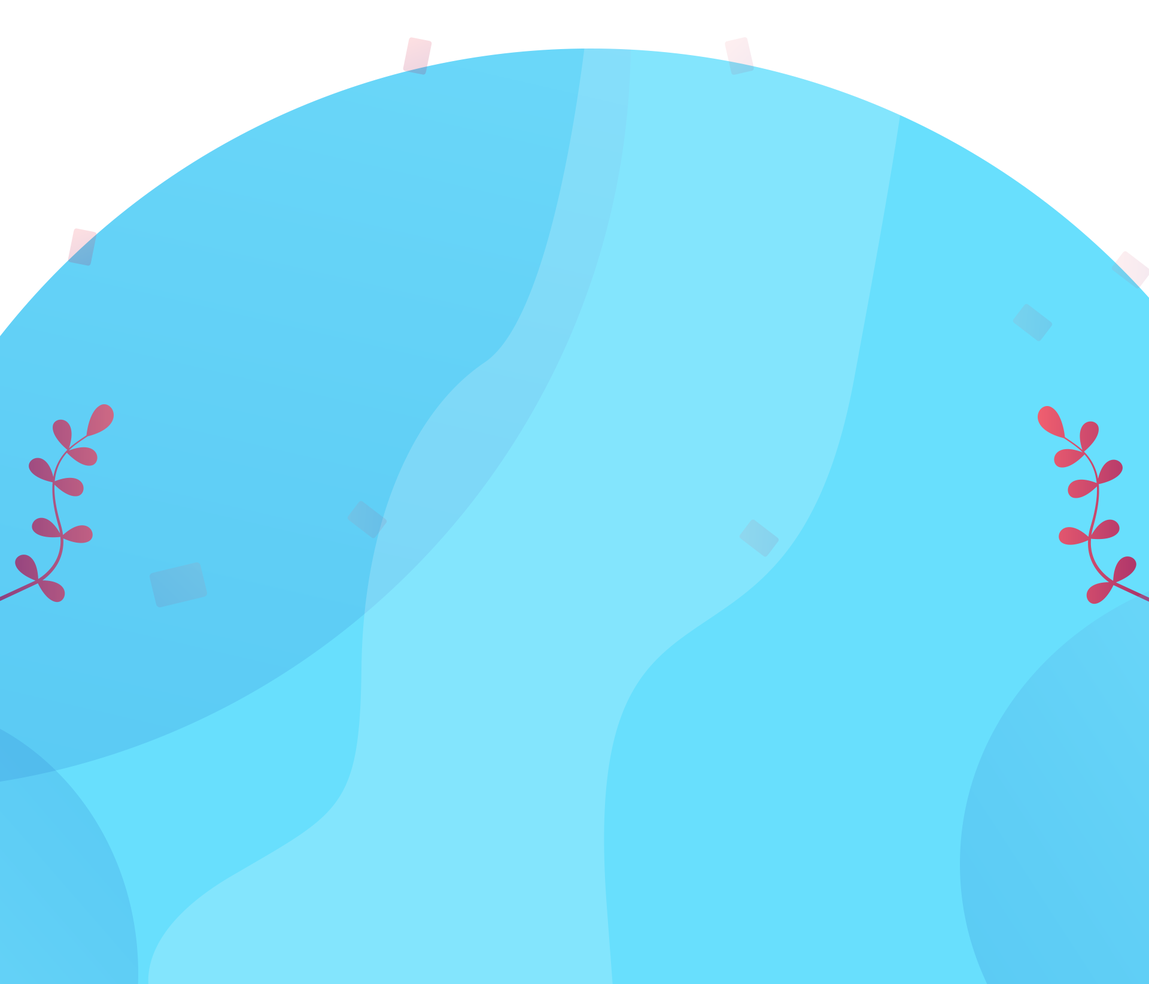
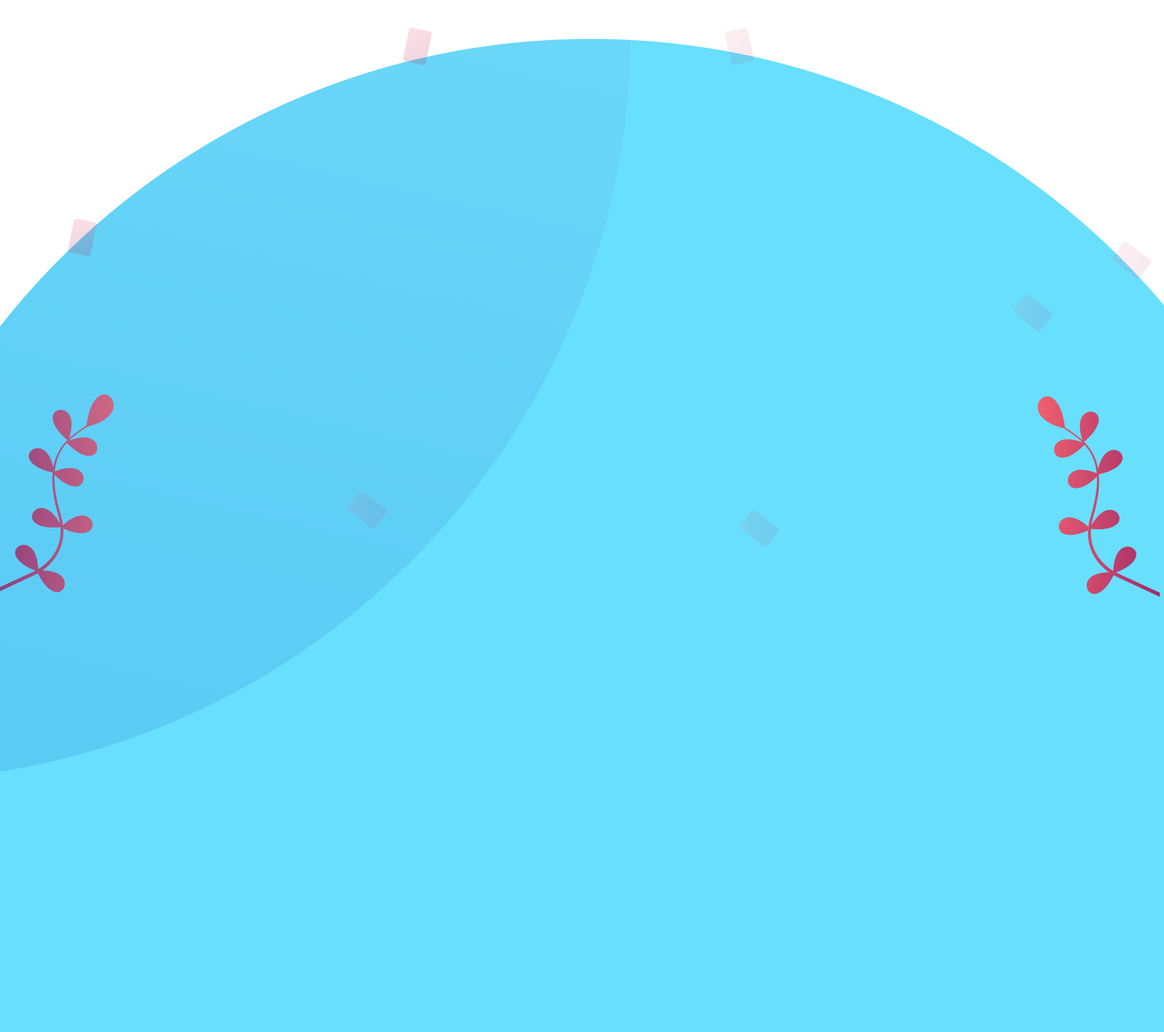
Закончил footer

diff --git a/app/css/style.min.css b/app/css/style.min.css
@@ -1,1 +1,1 @@
-/*! normalize.css v8.0.1 | MIT License | github.com/necolas/normalize.css */html{line-height:1.15;-webkit-text-size-adjust:100%}body{margin:0}main{display:block}h1{font-size:2em;margin:0.67em 0}hr{-webkit-box-sizing:content-box;box-sizing:content-box;height:0;overflow:visible}pre{font-family:monospace, monospace;font-size:1em}a{background-color:transparent}abbr[title]{border-bottom:none;text-decoration:underline;-webkit-text-decoration:underline dotted;text-decoration:underline dotted}b,strong{font-weight:bolder}code,kbd,samp{font-family:monospace, monospace;font-size:1em}small{font-size:80%}sub,sup{font-size:75%;line-height:0;position:relative;vertical-align:baseline}sub{bottom:-0.25em}sup{top:-0.5em}img{border-style:none}button,input,optgroup,select,textarea{font-family:inherit;font-size:100%;line-height:1.15;margin:0}button,input{overflow:visible}button,select{text-transform:none}button,[type="button"],[type="reset"],[type="submit"]{-webkit-appearance:button}button::-moz-focus-inner,[type="button"]::-moz-focus-inner,[type="reset"]::-moz-focus-inner,[type="submit"]::-moz-focus-inner{border-style:none;padding:0}button:-moz-focusring,[type="button"]:-moz-focusring,[type="reset"]:-moz-focusring,[type="submit"]:-moz-focusring{outline:1px dotted ButtonText}fieldset{padding:0.35em 0.75em 0.625em}legend{-webkit-box-sizing:border-box;box-sizing:border-box;color:inherit;display:table;max-width:100%;padding:0;white-space:normal}progress{vertical-align:baseline}textarea{overflow:auto}[type="checkbox"],[type="radio"]{-webkit-box-sizing:border-box;box-sizing:border-box;padding:0}[type="number"]::-webkit-inner-spin-button,[type="number"]::-webkit-outer-spin-button{height:auto}[type="search"]{-webkit-appearance:textfield;outline-offset:-2px}[type="search"]::-webkit-search-decoration{-webkit-appearance:none}::-webkit-file-upload-button{-webkit-appearance:button;font:inherit}details{display:block}summary{display:list-item}template{display:none}[hidden]{display:none}.slick-slider{position:relative;display:block;-webkit-box-sizing:border-box;box-sizing:border-box;-webkit-user-select:none;-moz-user-select:none;-ms-user-select:none;user-select:none;-webkit-touch-callout:none;-khtml-user-select:none;-ms-touch-action:pan-y;touch-action:pan-y;-webkit-tap-highlight-color:transparent}.slick-list{position:relative;display:block;overflow:hidden;margin:0;padding:0}.slick-list:focus{outline:none}.slick-list.dragging{cursor:pointer;cursor:hand}.slick-slider .slick-track,.slick-slider .slick-list{-webkit-transform:translate3d(0, 0, 0);-ms-transform:translate3d(0, 0, 0);transform:translate3d(0, 0, 0)}.slick-track{position:relative;top:0;left:0;display:block;margin-left:auto;margin-right:auto}.slick-track:before,.slick-track:after{display:table;content:''}.slick-track:after{clear:both}.slick-loading .slick-track{visibility:hidden}.slick-slide{display:none;float:left;height:100%;min-height:1px}[dir='rtl'] .slick-slide{float:right}.slick-slide img{display:block}.slick-slide.slick-loading img{display:none}.slick-slide.dragging img{pointer-events:none}.slick-initialized .slick-slide{display:block}.slick-loading .slick-slide{visibility:hidden}.slick-vertical .slick-slide{display:block;height:auto;border:1px solid transparent}.slick-arrow.slick-hidden{display:none}html,body,div,span,applet,object,iframe,h1,h2,h3,h4,h5,h6,p,blockquote,pre,a,abbr,acronym,address,big,cite,code,del,dfn,em,img,ins,kbd,q,s,samp,small,strike,strong,sub,sup,tt,var,b,u,i,center,dl,dt,dd,menu,ol,ul,li,fieldset,form,label,legend,table,caption,tbody,tfoot,thead,tr,th,td,article,aside,canvas,details,embed,figure,figcaption,footer,header,hgroup,main,menu,nav,output,ruby,section,summary,time,mark,audio,video{margin:0;padding:0;border:0;font-size:100%;font:inherit;vertical-align:baseline}article,aside,details,figcaption,figure,footer,header,hgroup,main,menu,nav,section{display:block}*[hidden]{display:none}body{line-height:1}menu,ol,ul{list-style:none}blockquote,q{quotes:none}blockquote:before,blockquote:after,q:before,q:after{content:'';content:none}table{border-collapse:collapse;border-spacing:0}@font-face{font-family:'fivosans-bold';src:url("../fonts/fivosans-bold.eot");src:local("☺"),url("../fonts/fivosans-bold.woff") format("woff"),url("../fonts/fivosans-bold.ttf") format("truetype"),url("../fonts/fivosans-bold.svg") format("svg");font-weight:700;font-style:normal}@font-face{font-family:'fivosans-heavy';src:url("../fonts/fivosans-heavy.eot");src:local("☺"),url("../fonts/fivosans-heavy.woff") format("woff"),url("../fonts/fivosans-heavy.ttf") format("truetype"),url("../fonts/fivosans-heavy.svg") format("svg");font-weight:800;font-style:normal}@font-face{font-family:'fivosans-light';src:url("../fonts/fivosans-light.eot");src:local("☺"),url("../fonts/fivosans-light.woff") format("woff"),url("../fonts/fivosans-light.ttf") format("truetype"),url("../fonts/fivosans-light.svg") format("svg");font-weight:300;font-style:normal}@font-face{font-family:'fivosans-medium';src:url("../fonts/fivosans-medium.eot");src:local("☺"),url("../fonts/fivosans-medium.woff") format("woff"),url("../fonts/fivosans-medium.ttf") format("truetype"),url("../fonts/fivosans-medium.svg") format("svg");font-weight:500;font-style:normal}@font-face{font-family:'fivosans-oblique';src:url("../fonts/fivosans-oblique.eot");src:local("☺"),url("../fonts/fivosans-oblique.woff") format("woff"),url("../fonts/fivosans-oblique.ttf") format("truetype"),url("../fonts/fivosans-oblique.svg") format("svg");font-weight:normal;font-style:normal}@font-face{font-family:'fivosans-regular';src:url("../fonts/fivosans-regular.eot");src:local("☺"),url("../fonts/fivosans-regular.woff") format("woff"),url("../fonts/fivosans-regular.ttf") format("truetype"),url("../fonts/fivosans-regular.svg") format("svg");font-weight:normal;font-style:normal}.menu{position:absolute;top:0;left:0;right:0;z-index:1000;padding-top:100px}.menu__body{display:-webkit-box;display:-ms-flexbox;display:flex;-webkit-box-pack:justify;-ms-flex-pack:justify;justify-content:space-between;-webkit-box-align:center;-ms-flex-align:center;align-items:center}.menu__body .logo a{font-family:'fivosans-heavy';color:#ff6a6d;font-size:32px;text-decoration:none}.menu__wrapper{display:-webkit-box;display:-ms-flexbox;display:flex;-webkit-box-align:center;-ms-flex-align:center;align-items:center}.menu__wrapper .btn__menu{margin-left:120px}.menu__list{display:-webkit-box;display:-ms-flexbox;display:flex}.menu__list li{margin-left:65px;list-style:none}.menu__list a{font-family:'fivosans-regular';color:#6e95b1;font-size:18px;text-decoration:none;-webkit-transition:all .2s linear;-o-transition:all .2s linear;transition:all .2s linear}.menu__list a:hover{color:#ff6a6d}.header{padding-top:275px;position:relative}.header__wrapper{width:545px;margin-bottom:75px}.header__wrapper-btn{margin-bottom:450px}.header__subtitle{font-size:18px;font-family:'fivosans-light';line-height:2;width:460px}.about__wrapper{text-align:center}.about__wrapper .title{margin-bottom:20px}.about__wrapper .subtitle{width:670px;margin:0 auto}.about__items{display:-webkit-box;display:-ms-flexbox;display:flex;-webkit-box-pack:justify;-ms-flex-pack:justify;justify-content:space-between;-webkit-box-align:center;-ms-flex-align:center;align-items:center;padding:150px 0px}.about__item img{width:100%;max-width:200px;height:auto}.about__img{margin-bottom:90px}.about__title{font-size:24px;font-family:'fivosans-bold';color:#000;margin-bottom:35px}.about__subtitle{text-align:center;padding:0px 60px}.services__items{display:-webkit-box;display:-ms-flexbox;display:flex;-webkit-box-pack:justify;-ms-flex-pack:justify;justify-content:space-between;-webkit-box-align:center;-ms-flex-align:center;align-items:center;margin-bottom:150px}.services__item{width:47%}.services__item img{width:100%;max-width:660px;height:auto}.services__title{font-size:24px;color:#000;font-family:'fivosans-bold';position:relative}.services__text{padding-left:50px}.services__icon{position:absolute;left:-50px;top:0}.services__icon img{width:30px;height:30px}.services__subtitle{margin-bottom:55px;line-height:2}.services__link a{font-family:'fivosans-oblique';font-size:18px;color:#3cbef1;text-decoration:none}.price{padding-top:140px;padding-bottom:200px}.price__wrapper{display:-webkit-box;display:-ms-flexbox;display:flex;-webkit-box-pack:justify;-ms-flex-pack:justify;justify-content:space-between;-webkit-box-align:center;-ms-flex-align:center;align-items:center}.price__item{background-color:#fff;border-radius:10px;overflow:hidden;min-width:370px;padding-bottom:50px;-webkit-box-shadow:0px 2px 20px 4px rgba(255,106,109,0.4);box-shadow:0px 2px 20px 4px rgba(255,106,109,0.4);cursor:pointer;-webkit-transition:all .2s linear;-o-transition:all .2s linear;transition:all .2s linear;margin-bottom:250px}.price__item:hover{-webkit-transform:scale(1.1);-ms-transform:scale(1.1);transform:scale(1.1)}.price__item:hover .price__title{background-color:#ff6a6d;color:#fff;text-transform:uppercase}.price__title{text-align:center;color:#000;font-size:30px;font-family:'fivosans-bold';padding:25px 0px;-webkit-transition:all .2s linear;-o-transition:all .2s linear;transition:all .2s linear;margin-bottom:30px}.price__subtitle{font-size:18px;color:#3b3838;padding-left:70px;position:relative;margin-bottom:30px}.price__icon{position:absolute;top:0;left:20px}.price__icon img{width:30px;height:30px}.price__price{text-align:center;position:relative;margin-bottom:30px}.price__price h3{margin:0;font-size:150px;color:#3b3838}.price__price sup{position:absolute;top:0;left:45px;font-size:48px}.price__price sub{font-size:30px}.price__price p{font-family:'fivosans-oblique'}.price__btn{background:-o-radial-gradient(circle, #5fcef5 0%, #83e3fb 100%);background:radial-gradient(circle, #5fcef5 0%, #83e3fb 100%);display:block;margin:0 auto;border:none;border-radius:50px;cursor:pointer;padding:30px;color:#fff;font-size:18px;font-family:'fivosans-medium';-webkit-transition:all .2s linear;-o-transition:all .2s linear;transition:all .2s linear}.price__btn:hover{background:#ff6a6d}.footer__wrapper{padding:100px 0px;display:-webkit-box;display:-ms-flexbox;display:flex;-ms-flex-pack:distribute;justify-content:space-around;-webkit-box-align:start;-ms-flex-align:start;align-items:start}*,*::after,*::before{-webkit-box-sizing:border-box;box-sizing:border-box}body{font-family:'fivosans-regular';color:#7e7f7f;line-height:1.5}.container__menu{width:100%;max-width:1450px;padding:0 15px;margin:0 auto}.container{width:100%;max-width:1230px;padding:0 15px;margin:0 auto}.btn__menu{font-family:'fivosans-regular';font-size:18px;color:#fff;background-color:#ff6a6d;border:none;padding:10px 45px;border-radius:50px;cursor:pointer;outline:none;-webkit-transition:all .2s linear;-o-transition:all .2s linear;transition:all .2s linear}.btn__menu:hover{-webkit-box-shadow:0px 0px 19px 9px rgba(255,106,109,0.5);box-shadow:0px 0px 19px 9px rgba(255,106,109,0.5)}.btn{color:#ff6a6d;font-size:18px;font-family:'fivosans-regular';background-color:transparent;border:1px solid #ff6a6d;border-radius:50px;margin-right:25px;padding:20px 85px;cursor:pointer;-webkit-transition:all .2s linear;-o-transition:all .2s linear;transition:all .2s linear}.btn:hover{color:#fff;background-color:#ff6a6d;-webkit-box-shadow:0px 0px 19px 9px rgba(255,106,109,0.5);box-shadow:0px 0px 19px 9px rgba(255,106,109,0.5)}.title{font-size:50px;font-family:'fivosans-bold';line-height:1.5;color:#000;margin-bottom:50px}.subtitle{font-size:18px;color:#7e7f7f;font-family:'fivosans-light'}
+/*! normalize.css v8.0.1 | MIT License | github.com/necolas/normalize.css */html{line-height:1.15;-webkit-text-size-adjust:100%}body{margin:0}main{display:block}h1{font-size:2em;margin:0.67em 0}hr{-webkit-box-sizing:content-box;box-sizing:content-box;height:0;overflow:visible}pre{font-family:monospace, monospace;font-size:1em}a{background-color:transparent}abbr[title]{border-bottom:none;text-decoration:underline;-webkit-text-decoration:underline dotted;text-decoration:underline dotted}b,strong{font-weight:bolder}code,kbd,samp{font-family:monospace, monospace;font-size:1em}small{font-size:80%}sub,sup{font-size:75%;line-height:0;position:relative;vertical-align:baseline}sub{bottom:-0.25em}sup{top:-0.5em}img{border-style:none}button,input,optgroup,select,textarea{font-family:inherit;font-size:100%;line-height:1.15;margin:0}button,input{overflow:visible}button,select{text-transform:none}button,[type="button"],[type="reset"],[type="submit"]{-webkit-appearance:button}button::-moz-focus-inner,[type="button"]::-moz-focus-inner,[type="reset"]::-moz-focus-inner,[type="submit"]::-moz-focus-inner{border-style:none;padding:0}button:-moz-focusring,[type="button"]:-moz-focusring,[type="reset"]:-moz-focusring,[type="submit"]:-moz-focusring{outline:1px dotted ButtonText}fieldset{padding:0.35em 0.75em 0.625em}legend{-webkit-box-sizing:border-box;box-sizing:border-box;color:inherit;display:table;max-width:100%;padding:0;white-space:normal}progress{vertical-align:baseline}textarea{overflow:auto}[type="checkbox"],[type="radio"]{-webkit-box-sizing:border-box;box-sizing:border-box;padding:0}[type="number"]::-webkit-inner-spin-button,[type="number"]::-webkit-outer-spin-button{height:auto}[type="search"]{-webkit-appearance:textfield;outline-offset:-2px}[type="search"]::-webkit-search-decoration{-webkit-appearance:none}::-webkit-file-upload-button{-webkit-appearance:button;font:inherit}details{display:block}summary{display:list-item}template{display:none}[hidden]{display:none}.slick-slider{position:relative;display:block;-webkit-box-sizing:border-box;box-sizing:border-box;-webkit-user-select:none;-moz-user-select:none;-ms-user-select:none;user-select:none;-webkit-touch-callout:none;-khtml-user-select:none;-ms-touch-action:pan-y;touch-action:pan-y;-webkit-tap-highlight-color:transparent}.slick-list{position:relative;display:block;overflow:hidden;margin:0;padding:0}.slick-list:focus{outline:none}.slick-list.dragging{cursor:pointer;cursor:hand}.slick-slider .slick-track,.slick-slider .slick-list{-webkit-transform:translate3d(0, 0, 0);-ms-transform:translate3d(0, 0, 0);transform:translate3d(0, 0, 0)}.slick-track{position:relative;top:0;left:0;display:block;margin-left:auto;margin-right:auto}.slick-track:before,.slick-track:after{display:table;content:''}.slick-track:after{clear:both}.slick-loading .slick-track{visibility:hidden}.slick-slide{display:none;float:left;height:100%;min-height:1px}[dir='rtl'] .slick-slide{float:right}.slick-slide img{display:block}.slick-slide.slick-loading img{display:none}.slick-slide.dragging img{pointer-events:none}.slick-initialized .slick-slide{display:block}.slick-loading .slick-slide{visibility:hidden}.slick-vertical .slick-slide{display:block;height:auto;border:1px solid transparent}.slick-arrow.slick-hidden{display:none}html,body,div,span,applet,object,iframe,h1,h2,h3,h4,h5,h6,p,blockquote,pre,a,abbr,acronym,address,big,cite,code,del,dfn,em,img,ins,kbd,q,s,samp,small,strike,strong,sub,sup,tt,var,b,u,i,center,dl,dt,dd,menu,ol,ul,li,fieldset,form,label,legend,table,caption,tbody,tfoot,thead,tr,th,td,article,aside,canvas,details,embed,figure,figcaption,footer,header,hgroup,main,menu,nav,output,ruby,section,summary,time,mark,audio,video{margin:0;padding:0;border:0;font-size:100%;font:inherit;vertical-align:baseline}article,aside,details,figcaption,figure,footer,header,hgroup,main,menu,nav,section{display:block}*[hidden]{display:none}body{line-height:1}menu,ol,ul{list-style:none}blockquote,q{quotes:none}blockquote:before,blockquote:after,q:before,q:after{content:'';content:none}table{border-collapse:collapse;border-spacing:0}@font-face{font-family:'fivosans-bold';src:url("../fonts/fivosans-bold.eot");src:local("☺"),url("../fonts/fivosans-bold.woff") format("woff"),url("../fonts/fivosans-bold.ttf") format("truetype"),url("../fonts/fivosans-bold.svg") format("svg");font-weight:700;font-style:normal}@font-face{font-family:'fivosans-heavy';src:url("../fonts/fivosans-heavy.eot");src:local("☺"),url("../fonts/fivosans-heavy.woff") format("woff"),url("../fonts/fivosans-heavy.ttf") format("truetype"),url("../fonts/fivosans-heavy.svg") format("svg");font-weight:800;font-style:normal}@font-face{font-family:'fivosans-light';src:url("../fonts/fivosans-light.eot");src:local("☺"),url("../fonts/fivosans-light.woff") format("woff"),url("../fonts/fivosans-light.ttf") format("truetype"),url("../fonts/fivosans-light.svg") format("svg");font-weight:300;font-style:normal}@font-face{font-family:'fivosans-medium';src:url("../fonts/fivosans-medium.eot");src:local("☺"),url("../fonts/fivosans-medium.woff") format("woff"),url("../fonts/fivosans-medium.ttf") format("truetype"),url("../fonts/fivosans-medium.svg") format("svg");font-weight:500;font-style:normal}@font-face{font-family:'fivosans-oblique';src:url("../fonts/fivosans-oblique.eot");src:local("☺"),url("../fonts/fivosans-oblique.woff") format("woff"),url("../fonts/fivosans-oblique.ttf") format("truetype"),url("../fonts/fivosans-oblique.svg") format("svg");font-weight:normal;font-style:normal}@font-face{font-family:'fivosans-regular';src:url("../fonts/fivosans-regular.eot");src:local("☺"),url("../fonts/fivosans-regular.woff") format("woff"),url("../fonts/fivosans-regular.ttf") format("truetype"),url("../fonts/fivosans-regular.svg") format("svg");font-weight:normal;font-style:normal}.menu{position:absolute;top:0;left:0;right:0;z-index:1000;padding-top:100px}.menu__body{display:-webkit-box;display:-ms-flexbox;display:flex;-webkit-box-pack:justify;-ms-flex-pack:justify;justify-content:space-between;-webkit-box-align:center;-ms-flex-align:center;align-items:center}.menu__body .logo a{font-family:'fivosans-heavy';color:#ff6a6d;font-size:32px;text-decoration:none}.menu__wrapper{display:-webkit-box;display:-ms-flexbox;display:flex;-webkit-box-align:center;-ms-flex-align:center;align-items:center}.menu__wrapper .btn__menu{margin-left:120px}.menu__list{display:-webkit-box;display:-ms-flexbox;display:flex}.menu__list li{margin-left:65px;list-style:none}.menu__list a{font-family:'fivosans-regular';color:#6e95b1;font-size:18px;text-decoration:none;-webkit-transition:all .2s linear;-o-transition:all .2s linear;transition:all .2s linear}.menu__list a:hover{color:#ff6a6d}.header{background-image:url(../../img/header__bg.jpg);background-repeat:no-repeat;background-position:inherit;background-size:contain;padding-top:275px;position:relative}.header__wrapper{width:545px;margin-bottom:75px}.header__wrapper-btn{margin-bottom:450px}.header__subtitle{font-size:18px;font-family:'fivosans-light';line-height:2;width:460px}.about__wrapper{text-align:center}.about__wrapper .title{margin-bottom:20px}.about__wrapper .subtitle{width:670px;margin:0 auto}.about__items{display:-webkit-box;display:-ms-flexbox;display:flex;-webkit-box-pack:justify;-ms-flex-pack:justify;justify-content:space-between;-webkit-box-align:center;-ms-flex-align:center;align-items:center;padding:150px 0px}.about__item img{width:100%;max-width:200px;height:auto}.about__img{margin-bottom:90px}.about__title{font-size:24px;font-family:'fivosans-bold';color:#000;margin-bottom:35px}.about__subtitle{text-align:center;padding:0px 60px}.services__items{display:-webkit-box;display:-ms-flexbox;display:flex;-webkit-box-pack:justify;-ms-flex-pack:justify;justify-content:space-between;-webkit-box-align:center;-ms-flex-align:center;align-items:center;margin-bottom:150px}.services__item{width:47%}.services__item img{width:100%;max-width:660px;height:auto}.services__title{font-size:24px;color:#000;font-family:'fivosans-bold';position:relative}.services__text{padding-left:50px}.services__icon{position:absolute;left:-50px;top:0}.services__icon img{width:30px;height:30px}.services__subtitle{margin-bottom:55px;line-height:2}.services__link a{font-family:'fivosans-oblique';font-size:18px;color:#3cbef1;text-decoration:none}.price{background-image:url(../../img/price__bg.png);background-repeat:no-repeat;background-position:center;background-size:cover;display:block;padding-top:140px}.price__wrapper{display:-webkit-box;display:-ms-flexbox;display:flex;-webkit-box-pack:justify;-ms-flex-pack:justify;justify-content:space-between;-webkit-box-align:center;-ms-flex-align:center;align-items:center}.price__item{background-color:#fff;border-radius:10px;overflow:hidden;min-width:370px;padding-bottom:50px;-webkit-box-shadow:0px 2px 20px 4px rgba(255,106,109,0.4);box-shadow:0px 2px 20px 4px rgba(255,106,109,0.4);cursor:pointer;-webkit-transition:all .2s linear;-o-transition:all .2s linear;transition:all .2s linear;margin-bottom:150px}.price__item:hover{-webkit-transform:scale(1.1);-ms-transform:scale(1.1);transform:scale(1.1)}.price__item:hover .price__title{background-color:#ff6a6d;color:#fff;text-transform:uppercase}.price__title{text-align:center;color:#000;font-size:30px;font-family:'fivosans-bold';padding:25px 0px;-webkit-transition:all .2s linear;-o-transition:all .2s linear;transition:all .2s linear;margin-bottom:30px}.price__subtitle{font-size:18px;color:#3b3838;padding-left:70px;position:relative;margin-bottom:30px}.price__icon{position:absolute;top:0;left:20px}.price__icon img{width:30px;height:30px}.price__price{text-align:center;position:relative;margin-bottom:30px}.price__price h3{margin:0;font-size:150px;color:#3b3838}.price__price sup{position:absolute;top:0;left:45px;font-size:48px}.price__price sub{font-size:30px}.price__price p{font-family:'fivosans-oblique'}.price__btn{background:-o-radial-gradient(circle, #5fcef5 0%, #83e3fb 100%);background:radial-gradient(circle, #5fcef5 0%, #83e3fb 100%);display:block;margin:0 auto;border:none;border-radius:50px;cursor:pointer;padding:30px;color:#fff;font-size:18px;font-family:'fivosans-medium';-webkit-transition:all .2s linear;-o-transition:all .2s linear;transition:all .2s linear}.price__btn:hover{background:#ff6a6d}.footer__wrapper{background-color:rgba(193,242,254,0.9);padding:100px 50px 0px 50px;border-top-right-radius:150px;border-top-left-radius:150px}.footer__items{display:-webkit-box;display:-ms-flexbox;display:flex;-ms-flex-pack:distribute;justify-content:space-around;-webkit-box-align:start;-ms-flex-align:start;align-items:flex-start}.footer__item{width:200px;margin-bottom:50px}.footer__title{font-size:18px;color:#2e2e2e;text-transform:uppercase;font-family:'fivosans-bold';margin-bottom:50px}.footer__subtitle{font-size:16px;color:#2e2e2e;margin-bottom:20px}.footer__copy{text-align:center;padding-bottom:50px}*,*::after,*::before{-webkit-box-sizing:border-box;box-sizing:border-box}body{font-family:'fivosans-regular';color:#7e7f7f;line-height:1.5}.container__menu{width:100%;max-width:1450px;padding:0 15px;margin:0 auto}.container{width:100%;max-width:1230px;padding:0 15px;margin:0 auto}.btn__menu{font-family:'fivosans-regular';font-size:18px;color:#fff;background-color:#ff6a6d;border:none;padding:10px 45px;border-radius:50px;cursor:pointer;outline:none;-webkit-transition:all .2s linear;-o-transition:all .2s linear;transition:all .2s linear}.btn__menu:hover{-webkit-box-shadow:0px 0px 19px 9px rgba(255,106,109,0.5);box-shadow:0px 0px 19px 9px rgba(255,106,109,0.5)}.btn{color:#ff6a6d;font-size:18px;font-family:'fivosans-regular';background-color:transparent;border:1px solid #ff6a6d;border-radius:50px;margin-right:25px;padding:20px 85px;cursor:pointer;-webkit-transition:all .2s linear;-o-transition:all .2s linear;transition:all .2s linear}.btn:hover{color:#fff;background-color:#ff6a6d;-webkit-box-shadow:0px 0px 19px 9px rgba(255,106,109,0.5);box-shadow:0px 0px 19px 9px rgba(255,106,109,0.5)}.title{font-size:50px;font-family:'fivosans-bold';line-height:1.5;color:#000;margin-bottom:50px}.subtitle{font-size:18px;color:#7e7f7f;font-family:'fivosans-light'}

diff --git a/app/index.html b/app/index.html
@@ -36,7 +36,7 @@
   <!-- =====================    MENU   ============================= -->
 
   <!-- =====================    HEADER   ============================= -->
-  <section class="header" style="background-image: url(img/header__bg.jpg);">
+  <section class="header">
     <div class="container">
       <div class="header__wrapper">
         <h1 class="title">Beautiful videos. Become your best self with BerYoGa.</h1>
@@ -160,7 +160,7 @@
   <!-- =====================    Services   ============================= -->
 
   <!-- =====================    Price   ============================= -->
-  <section class="price" style="background-image: url(img/price__bg.png);">
+  <section class="price" >
     <div class="container">
       <div class="price__wrapper">
         <div class="price__item">
@@ -231,47 +231,48 @@
 
     <section class="footer">
       <div class="container">
-        <div class="footer__wrapper" style="background-image: url(img/footer__bg.png);">
-          <div class="footer__item">
-            <div class="footer__title">CONTACT us</div>
-            <p class="footer__subtitle">Beryoga, Jl. Sudirman 
-              no. 129, Tebet 
-              Jakarta Selatan</p>
-            <p class="footer__subtitle">beryoga@yuk.com
-              0812 6824 2856 (Main)
-              (072) 2673842  (Toll-free)</p>
+        <div class="footer__wrapper">
+          <div class="footer__items">
+            <div class="footer__item">
+              <div class="footer__title">CONTACT us</div>
+              <p class="footer__subtitle">Beryoga, Jl. Sudirman 
+                no. 129, Tebet 
+                Jakarta Selatan</p>
+              <p class="footer__subtitle">beryoga@yuk.com
+                0812 6824 2856 (Main)
+                (072) 2673842  (Toll-free)</p>
+            </div>
+  
+            <div class="footer__item">
+              <div class="footer__title">About us</div>
+              <p class="footer__subtitle">Our Mission</p>
+              <p class="footer__subtitle">Our Team</p>
+              <p class="footer__subtitle">Management</p>
+              <p class="footer__subtitle">Policies</p>
+            </div>
+  
+            <div class="footer__item">
+              <div class="footer__title">Our Programs</div>
+              <p class="footer__subtitle">Yoga Class</p>
+              <p class="footer__subtitle">Bikram Yoga</p>
+              <p class="footer__subtitle">Acro Yoga</p>
+              <p class="footer__subtitle">Sveda Yoga</p>
+              <p class="footer__subtitle">Yo Mama</p>
+            </div>
+  
+            <div class="footer__item">
+              <div class="footer__title">support trails</div>
+              <p class="footer__subtitle">Donate</p>
+              <p class="footer__subtitle">Individual Membership</p>
+              <p class="footer__subtitle">Gift membership</p>
+              <p class="footer__subtitle">Hiker Store</p>
+            </div>
           </div>
-
-          <div class="footer__item">
-            <div class="footer__title">CONTACT us</div>
-            <p class="footer__subtitle">Beryoga, Jl. Sudirman 
-              no. 129, Tebet 
-              Jakarta Selatan</p>
-            <p class="footer__subtitle">beryoga@yuk.com
-              0812 6824 2856 (Main)
-              (072) 2673842  (Toll-free)</p>
-          </div>
-
-          <div class="footer__item">
-            <div class="footer__title">CONTACT us</div>
-            <p class="footer__subtitle">Beryoga, Jl. Sudirman 
-              no. 129, Tebet 
-              Jakarta Selatan</p>
-            <p class="footer__subtitle">beryoga@yuk.com
-              0812 6824 2856 (Main)
-              (072) 2673842  (Toll-free)</p>
-          </div>
-
-          <div class="footer__item">
-            <div class="footer__title">CONTACT us</div>
-            <p class="footer__subtitle">Beryoga, Jl. Sudirman 
-              no. 129, Tebet 
-              Jakarta Selatan</p>
-            <p class="footer__subtitle">beryoga@yuk.com
-              0812 6824 2856 (Main)
-              (072) 2673842  (Toll-free)</p>
+          <div class="footer__copy">
+            <h3>Copyright © 2019 BerYoga All rights reserved.</h3>
           </div>
         </div>
+
       </div>
     </section>
   </section>

diff --git a/app/css/blocks/price.min.css b/app/css/blocks/price.min.css
@@ -1,1 +1,1 @@
-.price{padding-top:140px;padding-bottom:200px}.price__wrapper{display:-webkit-box;display:-ms-flexbox;display:flex;-webkit-box-pack:justify;-ms-flex-pack:justify;justify-content:space-between;-webkit-box-align:center;-ms-flex-align:center;align-items:center}.price__item{background-color:#fff;border-radius:10px;overflow:hidden;min-width:370px;padding-bottom:50px;-webkit-box-shadow:0px 2px 20px 4px rgba(255,106,109,0.4);box-shadow:0px 2px 20px 4px rgba(255,106,109,0.4);cursor:pointer;-webkit-transition:all .2s linear;-o-transition:all .2s linear;transition:all .2s linear;margin-bottom:250px}.price__item:hover{-webkit-transform:scale(1.1);-ms-transform:scale(1.1);transform:scale(1.1)}.price__item:hover .price__title{background-color:#ff6a6d;color:#fff;text-transform:uppercase}.price__title{text-align:center;color:#000;font-size:30px;font-family:'fivosans-bold';padding:25px 0px;-webkit-transition:all .2s linear;-o-transition:all .2s linear;transition:all .2s linear;margin-bottom:30px}.price__subtitle{font-size:18px;color:#3b3838;padding-left:70px;position:relative;margin-bottom:30px}.price__icon{position:absolute;top:0;left:20px}.price__icon img{width:30px;height:30px}.price__price{text-align:center;position:relative;margin-bottom:30px}.price__price h3{margin:0;font-size:150px;color:#3b3838}.price__price sup{position:absolute;top:0;left:45px;font-size:48px}.price__price sub{font-size:30px}.price__price p{font-family:'fivosans-oblique'}.price__btn{background:-o-radial-gradient(circle, #5fcef5 0%, #83e3fb 100%);background:radial-gradient(circle, #5fcef5 0%, #83e3fb 100%);display:block;margin:0 auto;border:none;border-radius:50px;cursor:pointer;padding:30px;color:#fff;font-size:18px;font-family:'fivosans-medium';-webkit-transition:all .2s linear;-o-transition:all .2s linear;transition:all .2s linear}.price__btn:hover{background:#ff6a6d}
+.price{background-image:url(../../img/price__bg.png);background-repeat:no-repeat;background-position:center;background-size:cover;display:block;padding-top:140px}.price__wrapper{display:-webkit-box;display:-ms-flexbox;display:flex;-webkit-box-pack:justify;-ms-flex-pack:justify;justify-content:space-between;-webkit-box-align:center;-ms-flex-align:center;align-items:center}.price__item{background-color:#fff;border-radius:10px;overflow:hidden;min-width:370px;padding-bottom:50px;-webkit-box-shadow:0px 2px 20px 4px rgba(255,106,109,0.4);box-shadow:0px 2px 20px 4px rgba(255,106,109,0.4);cursor:pointer;-webkit-transition:all .2s linear;-o-transition:all .2s linear;transition:all .2s linear;margin-bottom:150px}.price__item:hover{-webkit-transform:scale(1.1);-ms-transform:scale(1.1);transform:scale(1.1)}.price__item:hover .price__title{background-color:#ff6a6d;color:#fff;text-transform:uppercase}.price__title{text-align:center;color:#000;font-size:30px;font-family:'fivosans-bold';padding:25px 0px;-webkit-transition:all .2s linear;-o-transition:all .2s linear;transition:all .2s linear;margin-bottom:30px}.price__subtitle{font-size:18px;color:#3b3838;padding-left:70px;position:relative;margin-bottom:30px}.price__icon{position:absolute;top:0;left:20px}.price__icon img{width:30px;height:30px}.price__price{text-align:center;position:relative;margin-bottom:30px}.price__price h3{margin:0;font-size:150px;color:#3b3838}.price__price sup{position:absolute;top:0;left:45px;font-size:48px}.price__price sub{font-size:30px}.price__price p{font-family:'fivosans-oblique'}.price__btn{background:-o-radial-gradient(circle, #5fcef5 0%, #83e3fb 100%);background:radial-gradient(circle, #5fcef5 0%, #83e3fb 100%);display:block;margin:0 auto;border:none;border-radius:50px;cursor:pointer;padding:30px;color:#fff;font-size:18px;font-family:'fivosans-medium';-webkit-transition:all .2s linear;-o-transition:all .2s linear;transition:all .2s linear}.price__btn:hover{background:#ff6a6d}

diff --git a/app/scss/blocks/footer.scss b/app/scss/blocks/footer.scss
@@ -1,8 +1,36 @@
 .footer {
     &__wrapper {
-        padding: 100px 0px;
+        background-color: rgba(193, 242, 254, .9);
+
+        padding: 100px 50px 0px 50px;
+
+        border-top-right-radius: 150px;
+        border-top-left-radius: 150px;
+    }
+    &__items {
         display: flex;
         justify-content: space-around;
-        align-items: start;
+        align-items: flex-start;
+    }
+    &__item {
+        width: 200px;
+        margin-bottom: 50px;
+    }
+    &__title {
+        font-size: 18px;
+        color: #2e2e2e;
+        text-transform: uppercase;
+
+        font-family: 'fivosans-bold';
+        margin-bottom: 50px;
+    }
+    &__subtitle {
+        font-size: 16px;
+        color: #2e2e2e;
+        margin-bottom: 20px;
+    }
+    &__copy {
+        text-align: center;
+        padding-bottom: 50px;
     }
 }

diff --git a/app/css/blocks/footer.min.css b/app/css/blocks/footer.min.css
@@ -1,1 +1,1 @@
-.footer__wrapper{padding:100px 0px;display:-webkit-box;display:-ms-flexbox;display:flex;-ms-flex-pack:distribute;justify-content:space-around;-webkit-box-align:start;-ms-flex-align:start;align-items:start}
+.footer__wrapper{background-color:rgba(193,242,254,0.9);padding:100px 50px 0px 50px;border-top-right-radius:150px;border-top-left-radius:150px}.footer__items{display:-webkit-box;display:-ms-flexbox;display:flex;-ms-flex-pack:distribute;justify-content:space-around;-webkit-box-align:start;-ms-flex-align:start;align-items:flex-start}.footer__item{width:200px;margin-bottom:50px}.footer__title{font-size:18px;color:#2e2e2e;text-transform:uppercase;font-family:'fivosans-bold';margin-bottom:50px}.footer__subtitle{font-size:16px;color:#2e2e2e;margin-bottom:20px}.footer__copy{text-align:center;padding-bottom:50px}

diff --git a/app/css/blocks/header.min.css b/app/css/blocks/header.min.css
@@ -1,1 +1,1 @@
-.header{padding-top:275px;position:relative}.header__wrapper{width:545px;margin-bottom:75px}.header__wrapper-btn{margin-bottom:450px}.header__subtitle{font-size:18px;font-family:'fivosans-light';line-height:2;width:460px}
+.header{background-image:url(../../img/header__bg.jpg);background-repeat:no-repeat;background-position:inherit;background-size:contain;padding-top:275px;position:relative}.header__wrapper{width:545px;margin-bottom:75px}.header__wrapper-btn{margin-bottom:450px}.header__subtitle{font-size:18px;font-family:'fivosans-light';line-height:2;width:460px}

diff --git a/app/scss/blocks/price.scss b/app/scss/blocks/price.scss
@@ -1,6 +1,12 @@
 .price {
+
+    background-image: url(../../img/price__bg.png);
+    background-repeat: no-repeat;
+    background-position: center;
+    background-size: cover;
+    display: block;
+
     padding-top: 140px;
-    padding-bottom: 200px;
 
     &__wrapper {
         display: flex;
@@ -17,7 +23,7 @@
         box-shadow:0px 2px 20px 4px rgba(255,106,109,0.4);
         cursor: pointer;
         transition: all .2s linear;
-        margin-bottom: 250px;
+        margin-bottom: 150px;
         &:hover {
             transform: scale(1.1);
         }

diff --git a/app/scss/blocks/header.scss b/app/scss/blocks/header.scss
@@ -1,4 +1,9 @@
 .header {
+    background-image: url(../../img/header__bg.jpg);
+    background-repeat: no-repeat;
+    background-position: inherit;
+    background-size: contain;
+
     padding-top: 275px;
     position: relative;
     &__wrapper {
